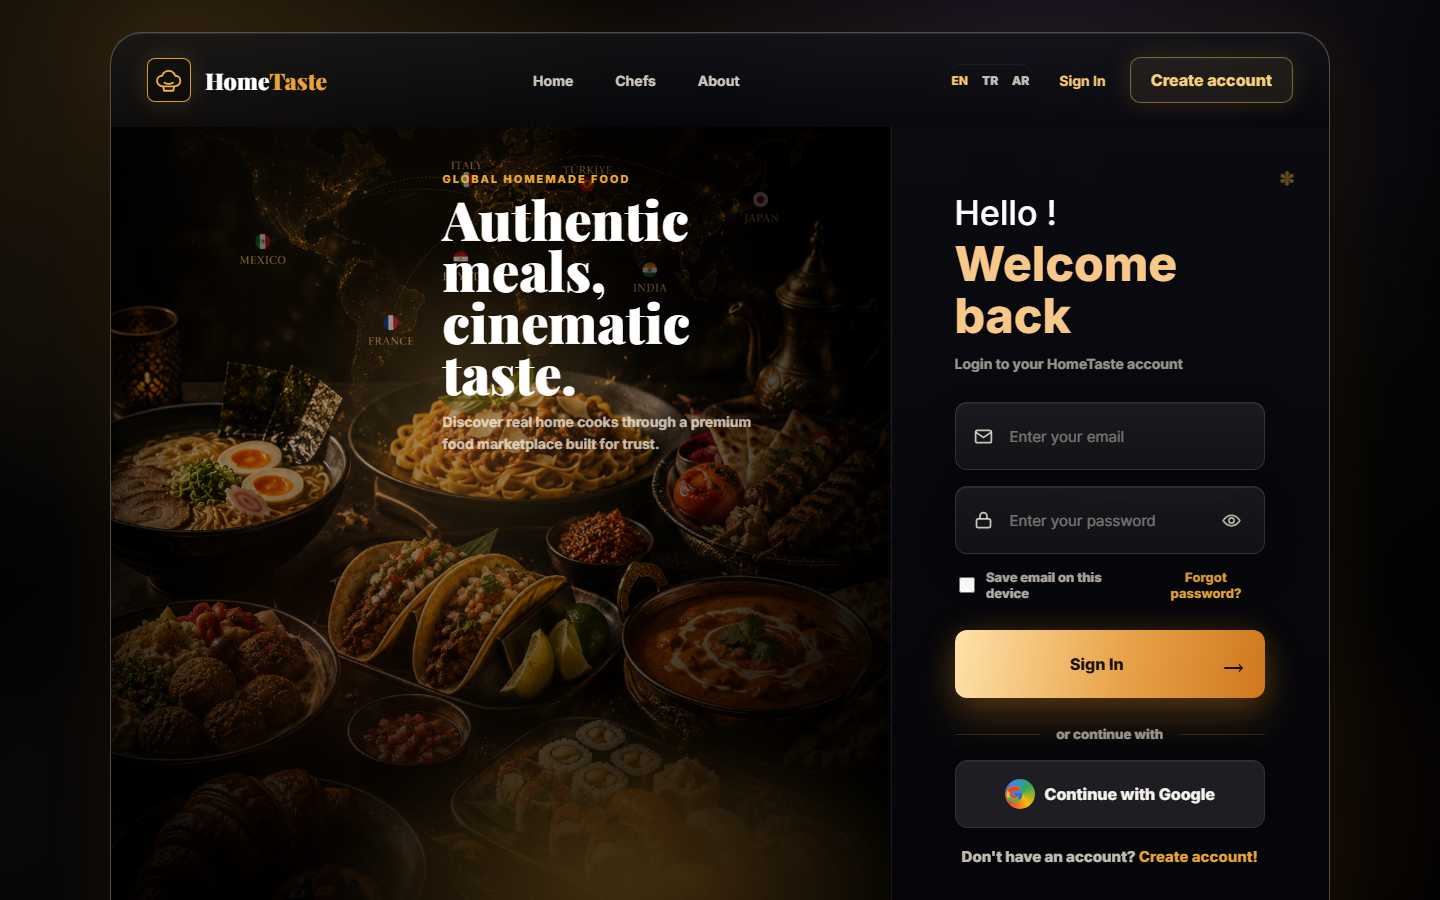
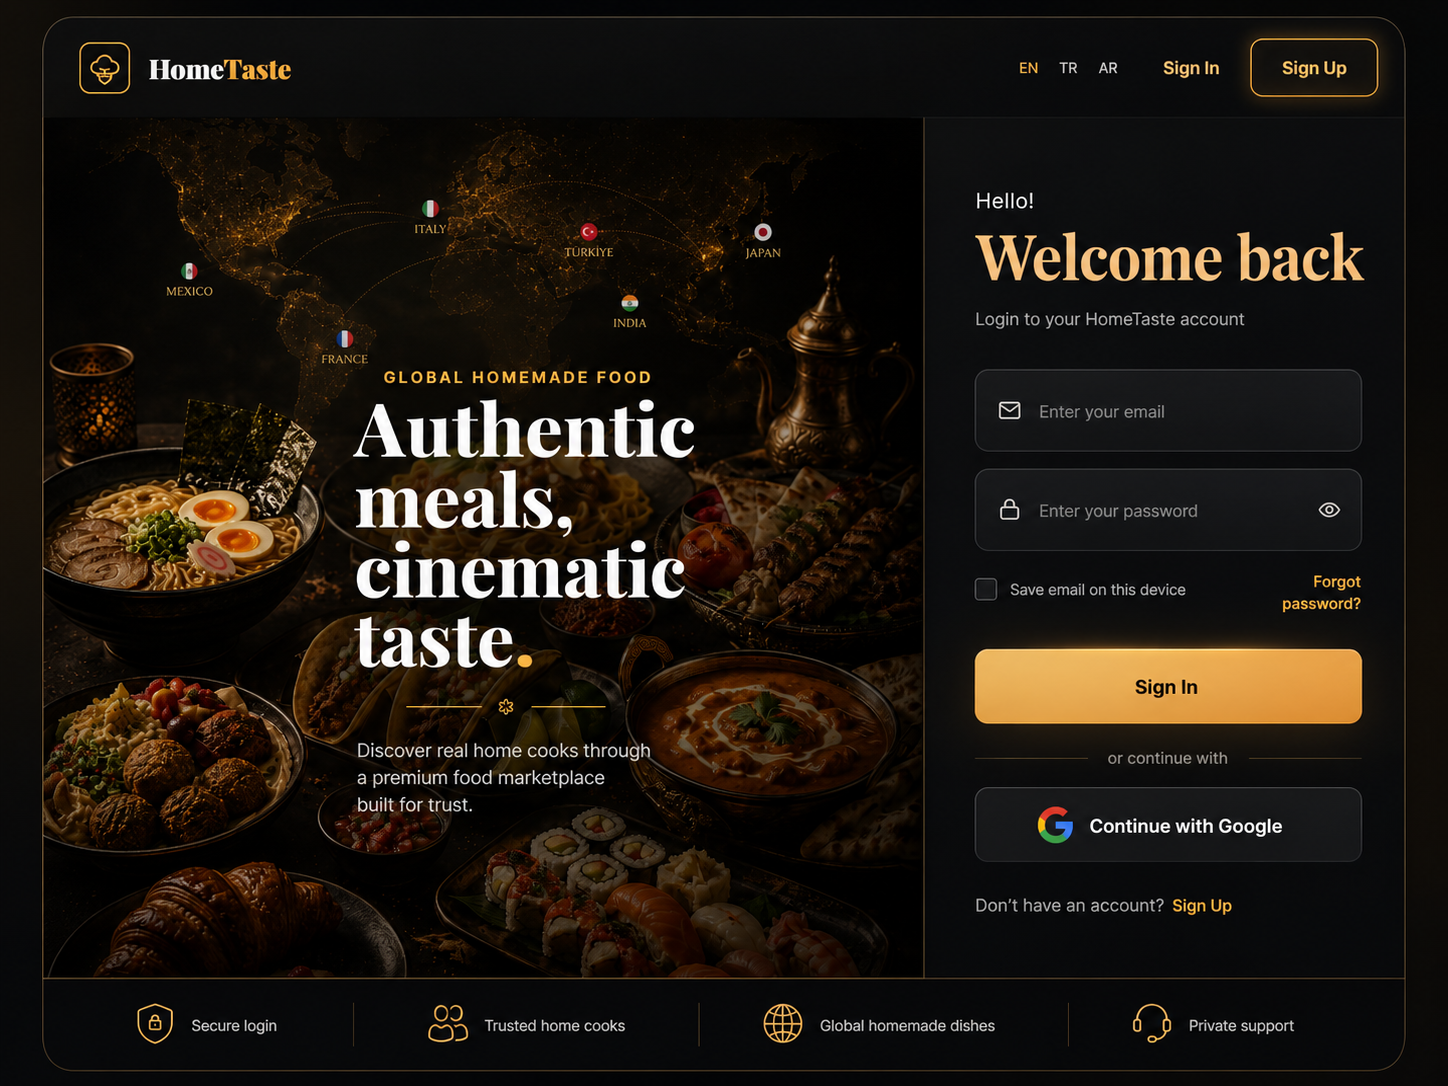
Polish auth page to match launch login reference

diff --git a/public/app.js b/public/app.js
@@ -1683,23 +1683,18 @@ function renderAuth(error = "") {
             <div class="chef-mark">${chefIcon}</div>
             <strong>Home<span>Taste</span></strong>
           </div>
-          <nav class="auth-nav" aria-label="HomeTaste">
-            <button type="button">Home</button>
-            <button type="button">Chefs</button>
-            <button type="button">About</button>
-          </nav>
           <div class="auth-nav-actions">
             <div class="auth-language-tabs" aria-label="${t("changeLanguage")}">
               ${["EN", "TR", "AR"].map((code) => `<button type="button" data-language="${code}" class="${appLanguage === code ? "active" : ""}">${code}</button>`).join("")}
             </div>
             <button class="auth-nav-link ${mode === "login" ? "active" : ""}" type="button" id="showLogin">${t("signIn")}</button>
-            <button class="auth-register-btn ${mode === "signup" ? "active" : ""}" type="button" id="showSignup">${t("createAccount")}</button>
+            <button class="auth-register-btn ${mode === "signup" ? "active" : ""}" type="button" id="showSignup">Sign Up</button>
           </div>
         </header>
         <div class="auth-frame-body">
           <section class="auth-hero">
             <div class="auth-hero-copy">
-              <p class="script-line">Global homemade food</p>
+              <p class="script-line">GLOBAL HOMEMADE FOOD</p>
               <h1>Authentic meals, cinematic taste.</h1>
               <p>Discover real home cooks through a premium food marketplace built for trust.</p>
             </div>
@@ -1710,7 +1705,7 @@ function renderAuth(error = "") {
               <div class="chef-badge">${chefIcon}</div>
               <strong>Home<span>Taste</span></strong>
             </div>
-            <p class="auth-kicker">Hello !</p>
+            <p class="auth-kicker">Hello!</p>
             <h2>${isLogin ? "Welcome back" : "Create your account"}</h2>
             <p class="auth-subtitle">${isLogin ? t("loginSubtitle") : t("signupSubtitle")}</p>
             ${error ? `<div class="notice error">${error}</div>` : ""}
@@ -1735,14 +1730,14 @@ function renderAuth(error = "") {
                 </div>
                 ${rememberedLogin ? `<button class="link-button saved-login-clear" type="button" id="clearSavedLogin">Clear saved login</button>` : ""}
               ` : ""}
-              <button class="button auth-submit" type="submit"><span>${isLogin ? t("signIn") : t("signUp")}</span><b>&rarr;</b></button>
+              <button class="button auth-submit" type="submit"><span>${isLogin ? t("signIn") : t("signUp")}</span></button>
             </form>
             <div class="auth-separator"><span></span><small>${t("continueWith")}</small><span></span></div>
             <div class="oauth-grid">
               <button class="button secondary oauth-button" type="button" data-oauth="google"><b class="g-icon">${googleColorIcon}</b><span>Continue with Google</span></button>
             </div>
             <button class="auth-mode-link" type="button" id="switchMode">
-              ${isLogin ? "Don't have an account?" : t("hasAccount")} <strong>${isLogin ? `${t("createAccount")}!` : t("signIn")}</strong>
+              ${isLogin ? "Don't have an account?" : t("hasAccount")} <strong>${isLogin ? "Sign Up" : t("signIn")}</strong>
             </button>
             <form class="form mini-form" id="resetRequestForm">
               <div class="field"><label>${t("passwordReset")}</label><input class="input" type="email" name="email" placeholder="${t("resetPlaceholder")}"></div>
@@ -1752,10 +1747,10 @@ function renderAuth(error = "") {
           </section>
         </div>
         <div class="auth-info-strip">
-          <span>Protected checkout and profile security</span>
-          <span>10M+ Happy Foodies</span>
-          <span>4.9 star Average Rating</span>
-          <span>Made with love for food lovers</span>
+          <span>Secure login</span>
+          <span>Trusted home cooks</span>
+          <span>Global homemade dishes</span>
+          <span>Private support</span>
         </div>
       </section>
     </main>

diff --git a/public/styles.css b/public/styles.css
@@ -341,7 +341,7 @@ textarea { min-height: 88px; resize: vertical; }
   padding: 42px 50px;
   display: flex;
   flex-direction: column;
-  justify-content: space-between;
+  justify-content: center;
   overflow: hidden;
   border: 1px solid rgba(255,255,255,.08);
   border-radius: 8px;
@@ -405,23 +405,23 @@ textarea { min-height: 88px; resize: vertical; }
 .auth-hero-copy {
   position: relative;
   z-index: 1;
-  width: min(720px, 100%);
+  width: min(560px, 100%);
   text-align: center;
   align-self: center;
-  margin-bottom: 4vh;
+  margin: 0 auto;
 }
-.script-line { margin: 0; color: #e0a234; font: 400 46px "Playfair Display", serif; font-style: italic; }
+.script-line { margin: 0 0 16px; color: #e0a234; font: 800 13px/1 Inter, system-ui, sans-serif; font-style: normal; letter-spacing: .22em; text-transform: uppercase; }
 .auth-hero-copy h1 {
-  margin: -2px 0 10px;
-  font: 900 clamp(62px, 7vw, 112px) "Playfair Display", serif;
-  line-height: .92;
+  margin: 0 0 18px;
+  font: 900 clamp(46px, 5.4vw, 84px) "Playfair Display", serif;
+  line-height: .98;
   color: #fff;
 }
 .auth-hero-copy p:last-child {
-  margin: 20px auto 0;
-  max-width: 440px;
-  color: rgba(255,255,255,.88);
-  font: 700 20px/1.45 "Playfair Display", serif;
+  margin: 0 auto;
+  max-width: 360px;
+  color: rgba(255,255,255,.8);
+  font: 500 14px/1.6 Inter, system-ui, sans-serif;
 }
 .chef-divider { display: flex; align-items: center; justify-content: center; gap: 14px; color: #e0a234; }
 .chef-divider span { width: 86px; height: 2px; background: linear-gradient(90deg, transparent, #d39832, transparent); }
@@ -1347,7 +1347,7 @@ html[dir="rtl"] .role-panel { border-left: 0; border-right: 1px solid var(--line
 .auth-hero-copy{position:relative;z-index:1;width:min(560px,100%);margin:0;text-align:left}.script-line{margin:0 0 8px;color:#e8a435;font:800 15px/1.2 Inter,system-ui,sans-serif;letter-spacing:.08em;text-transform:uppercase}
 .auth-hero-copy h1{margin:0 0 12px;color:#fff;font:900 clamp(54px,7vw,92px)/.9 "Playfair Display",serif}.auth-hero-copy p:last-child{max-width:390px;margin:0;color:rgba(255,246,232,.82);font:700 17px/1.55 Inter,system-ui,sans-serif}
 .auth-card,body.app-light .auth-card{position:relative;align-self:stretch;justify-self:stretch;width:100%;min-height:auto;display:flex;flex-direction:column;justify-content:center;padding:clamp(34px,4vw,58px);color:#fff6e8;border:0;border-radius:0;background:radial-gradient(circle at 78% 12%,rgba(232,164,53,.18),transparent 24%),radial-gradient(circle at 10% 92%,rgba(126,71,170,.14),transparent 26%),linear-gradient(180deg,rgba(15,15,18,.74),rgba(7,7,9,.88));box-shadow:inset 0 0 0 1px rgba(255,255,255,.04)}
-.auth-doodle{right:34px;top:32px;color:rgba(232,164,53,.42);font-size:34px}.mobile-auth-logo,.auth-switch{display:none}.auth-kicker{margin:0 0 6px;color:rgba(255,246,232,.9);font:800 23px/1.2 Inter,system-ui,sans-serif}
+.auth-doodle{right:34px;top:32px;color:rgba(232,164,53,.42);font-size:34px}.mobile-auth-logo,.auth-switch{display:none}.auth-kicker{margin:0 0 4px;color:rgba(255,246,232,.62);font:600 14px/1.2 Inter,system-ui,sans-serif}
 .auth-card h2,body.app-light .auth-card h2{margin:0;color:#fff;font:900 clamp(44px,4.8vw,64px)/1 "Playfair Display",serif}.auth-subtitle,body.app-light .auth-subtitle{margin:10px 0 24px;color:rgba(255,246,232,.62);font:700 14px/1.5 Inter,system-ui,sans-serif}
 .auth-card .form{gap:14px}.auth-card .field label,body.app-light .auth-card .field label{color:rgba(255,246,232,.82);font:800 12px/1.2 Inter,system-ui,sans-serif;text-transform:none}
 .auth-card .input,.auth-card textarea,.auth-card select,body.app-light .auth-card .input,body.app-light .auth-card textarea,body.app-light .auth-card select{min-height:54px;border:1px solid rgba(232,164,53,.22);border-radius:16px;background:rgba(255,255,255,.07);color:#fff6e8;box-shadow:inset 0 1px 0 rgba(255,255,255,.07),0 12px 34px rgba(0,0,0,.22)}
